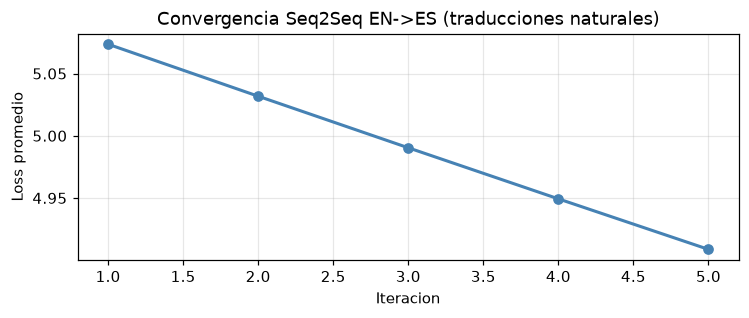
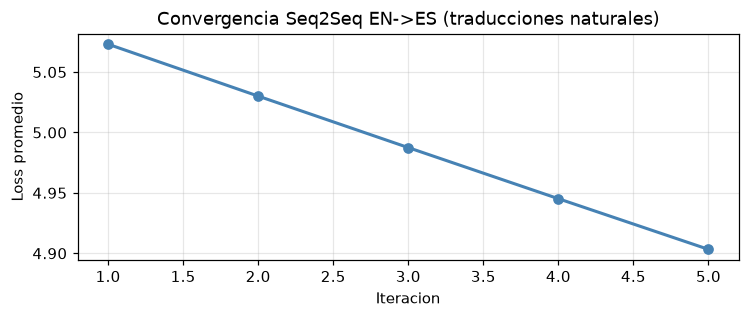
chore: docs, etc.

diff --git a/Proy-01/README.md b/Proy-01/README.md
@@ -1,0 +1,41 @@
+# Proyecto 1 — Semana 6: Transformer desde cero
+
+## Summary
+
+Group project (8% of course grade) implementing a Transformer Encoder and a decoder-only Mini-GPT from raw PyTorch tensors (`nn.Parameter` + `torch.optim.Adam` allowed, but no `nn.MultiheadAttention`/`nn.TransformerEncoder` or other high-level architecture layers), plus an interactive visualization artifact and a 3-minute video. Both models share `layer_norm` and the multi-head attention logic; the Mini-GPT reuses the encoder's building blocks but adds a causal mask and swaps the CLS classifier head for a full vocabulary projection.
+
+- **Block 0 (given)**: Corpus (SST-2 movie reviews, downloaded from GitHub), vocab builders for both the classification task (`vocab_cls`, with a `<CLS>` token) and the language-modeling task (`vocab_gpt`), and fixed model dimensions (`d_model=32`, `d_ff=64`, `n_heads=2`, `d_k=16`).
+- **Part 1 — Transformer Encoder (40 pts)**: Implemented `layer_norm` and a full one-block `TransformerEncoder` (`nn.Module`) — embeddings + positional encoding, multi-head self-attention, Add & LayerNorm, position-wise FFN, Add & LayerNorm, and a classifier head on the `[CLS]` token's final representation — trained with Adam for sentiment classification (positive/negative) on SST-2.
+- **Part 2 — Mini-GPT (25 pts)**: Implemented a decoder-only `MiniGPT`, reusing the encoder's attention/FFN logic but adding a causal mask (`-inf` on the upper triangle of the attention scores before softmax) and replacing the CLS classifier with a language-modeling head (`Wlm`/`blm`) projecting to the full GPT vocabulary, trained for next-token prediction.
+- **Part 3 — Interactive artifact (15 pts)**: Self-contained HTML page (no server, no network calls) reimplementing both models' inference (forward pass, softmax, attention) in JavaScript from the exported JSON weights. Three tabs: *The Writer* (Mini-GPT text generation across multiple temperatures side-by-side, with clickable tokens to inspect/redraw from the sampling distribution), *The Critic* (live sentiment classification with per-head attention maps and word-level occlusion importance), and *The Notes* (technical write-up of the artifact itself).
+- **Part 4 — Analysis questions + video (20 pts)**: Written answers (in the notebook) plus a 3-minute video covering: (1) how information flows from a token to `[CLS]` through multi-head attention, interpretation of attention maps on positive/negative examples, and what a second stacked encoder layer could capture that one layer can't; (2) why `exp(-inf)=0` is exact for the causal mask (vs. a large negative number), how gradient signal richness differs between position 0 and position T-1 under causal masking, and the softmax/temperature relationship behind repetitive vs. varied generations; (3) the code changes needed to turn the Mini-GPT's masked self-attention into cross-attention (connecting back to the Week 5 seq2seq decoder), a parameter-count comparison against the original Vaswani et al. Transformer (~1,584x larger), and what linguistic capabilities a 400-sentence corpus fundamentally can't teach a language model.
+
+## Deliverables
+
+| File | Description |
+| :--- | :---------- |
+| `S6 - Proyecto1_Semana6.ipynb` | Full notebook: `TransformerEncoder` and `MiniGPT` implementations, training loops, verification/autograder cells, weight export, artifact description, and written answers to the three analysis questions. |
+| `convergencia_encoder.png` | Training loss / accuracy curves for the `TransformerEncoder` over 25 epochs. |
+| `convergencia_gpt.png` | Training loss curve for the `MiniGPT` over 50 epochs. |
+| `encoder_weights.json` / `gpt_weights.json` | Trained parameters exported to JSON, embedded in the artifact for in-browser inference. |
+| `sst2_train.tsv` / `sst2_dev.tsv` | SST-2 corpus (downloaded automatically by Block 0). |
+
+## Notebook Walkthrough
+
+- **Part 1 verification**: forward pass produces the expected `[2]` logits and `[2, 16, 16]` attention shapes, attention rows sum to 1.0, and initial loss ≈ 1.46 (close to the untrained baseline). Trained for 25 epochs, reaching **66.00% dev accuracy** (train accuracy ~98.7% by epoch 12) — passes the ≥60% autograder threshold.
+- **Part 2 verification**: causal mask confirmed correct (row 0 attends only to position 0, row 1 to positions 0–1, etc.; all future positions are exactly 0). Trained for 50 epochs, loss going **4.3562 → 1.0082** (a >75% reduction, well past the ≥15% autograder threshold). Sample generations at temperature 0.8 show short locally-plausible fragments heavily peppered with `<UNK>`, reflecting the tiny corpus.
+- **Automatic grading cell**: reports **65/65** on the code section — Part 1 (40/40, dev_acc=66.00%) and Part 2 (25/25, loss 4.3562→1.0082) — with Parts 3 (artifact, 15 pts) and 4 (video, 20 pts) left for manual grading.
+- **Artifact**: published at https://claude.ai/public/artifacts/05c8421e-c929-457f-ab62-f0a9907ff4db — **100% AI-generated**, built with Claude from the exported weights and technical details, with all inference logic reimplemented in JavaScript.
+- **Video**: https://youtu.be/ogbKwlHrfCU
+
+## AI Usage
+
+See [`AI.md`](./AI.md) for details on AI usage in this project (prompts and explanations).
+
+## Execution
+
+Requires Python 3.10+ with PyTorch, NumPy, Matplotlib, and Jupyter (see `.venv` / `requirements.txt`). The corpus is downloaded automatically from GitHub when Block 0 runs.
+
+```bash
+jupyter notebook "S6 - Proyecto1_Semana6.ipynb"
+```

diff --git a/Proy-01/AI.md b/Proy-01/AI.md
@@ -1,0 +1,60 @@
+# Prompts usados para generar el codigo — Multi-Head Attention (Proyecto 1, Semana 6)
+
+Prompts que se pudieron haber usado para que una IA generara cada bloque de codigo trabajado en esta sesion, con el "por que funciono" y donde se uso en el notebook.
+
+---
+
+## 1. Separar cabezas para multi-head attention
+
+**Donde se uso:** Paso 2 de `multi_head_attention`.
+
+```python
+Q = Q.view(T, self.n_heads, self.d_k).transpose(0, 1)
+K = K.view(T, self.n_heads, self.d_k).transpose(0, 1)
+V = V.view(T, self.n_heads, self.d_k).transpose(0, 1)
+```
+
+**Prompt:**
+
+> I'm implementing multi-head attention from scratch in PyTorch (without `nn.MultiheadAttention`). I already have `Q`, `K`, `V` with shape `(T, d_model)`, the result of projecting `x` with `self.WQ`, `self.WK`, `self.WV`. I have `self.n_heads` heads
+> and `self.d_k = d_model // n_heads`. Write the PyTorch code to split `Q`, `K`, `V` into the `n_heads` heads, leaving each one with final shape `(n_heads, T, d_k)`, so that each head processes a different slice of the vector
+> for each token. Don't use `nn.MultiheadAttention` or high-level functions, only basic tensor operations.
+
+**Por que funciono:** Dar las formas de entrada y salida exactas (`(T, d_model)` → `(n_heads, T, d_k)`) le da al modelo un objetivo verificable en vez de pedir "codigo de attention" en general.
+
+---
+
+## 2. Enmascarar posiciones PAD antes del softmax
+
+**Donde se uso:** Paso 4 de `multi_head_attention`.
+
+```python
+key_mask = pad_mask.view(1, 1, T)
+scores = scores.masked_fill(~key_mask, float('-inf'))
+```
+
+**Prompt:**
+
+> I have `scores` with shape `(n_heads, T, T)` (attention scores before softmax) and `pad_mask`, a boolean tensor of shape `(T,)` where `True` marks valid positions and `False` marks padding positions (`<PAD>`). Write the
+> PyTorch code so that no token can attend to PAD positions, setting those scores to `-inf` before applying softmax (softmax is applied afterward, don't include it). The mask must apply the same way for all heads and
+> all rows (queries), it only depends on the key's position.
+
+**Por que funciono:** Especificar el significado semantico de `True`/`False` en la mascara evita que el modelo invierta la logica por accidente.
+
+---
+
+## 3. Recombinar las cabezas y proyectar con WO
+
+**Donde se uso:** Paso 7 de `multi_head_attention`.
+
+```python
+out = out.transpose(0, 1).contiguous().view(T, self.d_model)
+out = out @ self.WO
+```
+
+**Prompt:**
+
+> After applying attention per head, I have `out = attn_w @ V` with shape `(n_heads, T, d_k)`. Write the PyTorch code to: (1) recombine all the heads back into a single vector per token, leaving the final shape as
+> `(T, d_model)` with `d_model = n_heads * d_k`, and (2) apply a final linear projection with a weight matrix `self.WO` of shape `(d_model, d_model)` to mix information across heads.
+
+**Por que funciono:** Nuevamente, detallar los tamaños y dar información sobre el código correspondiente genera mejores respuestas.
